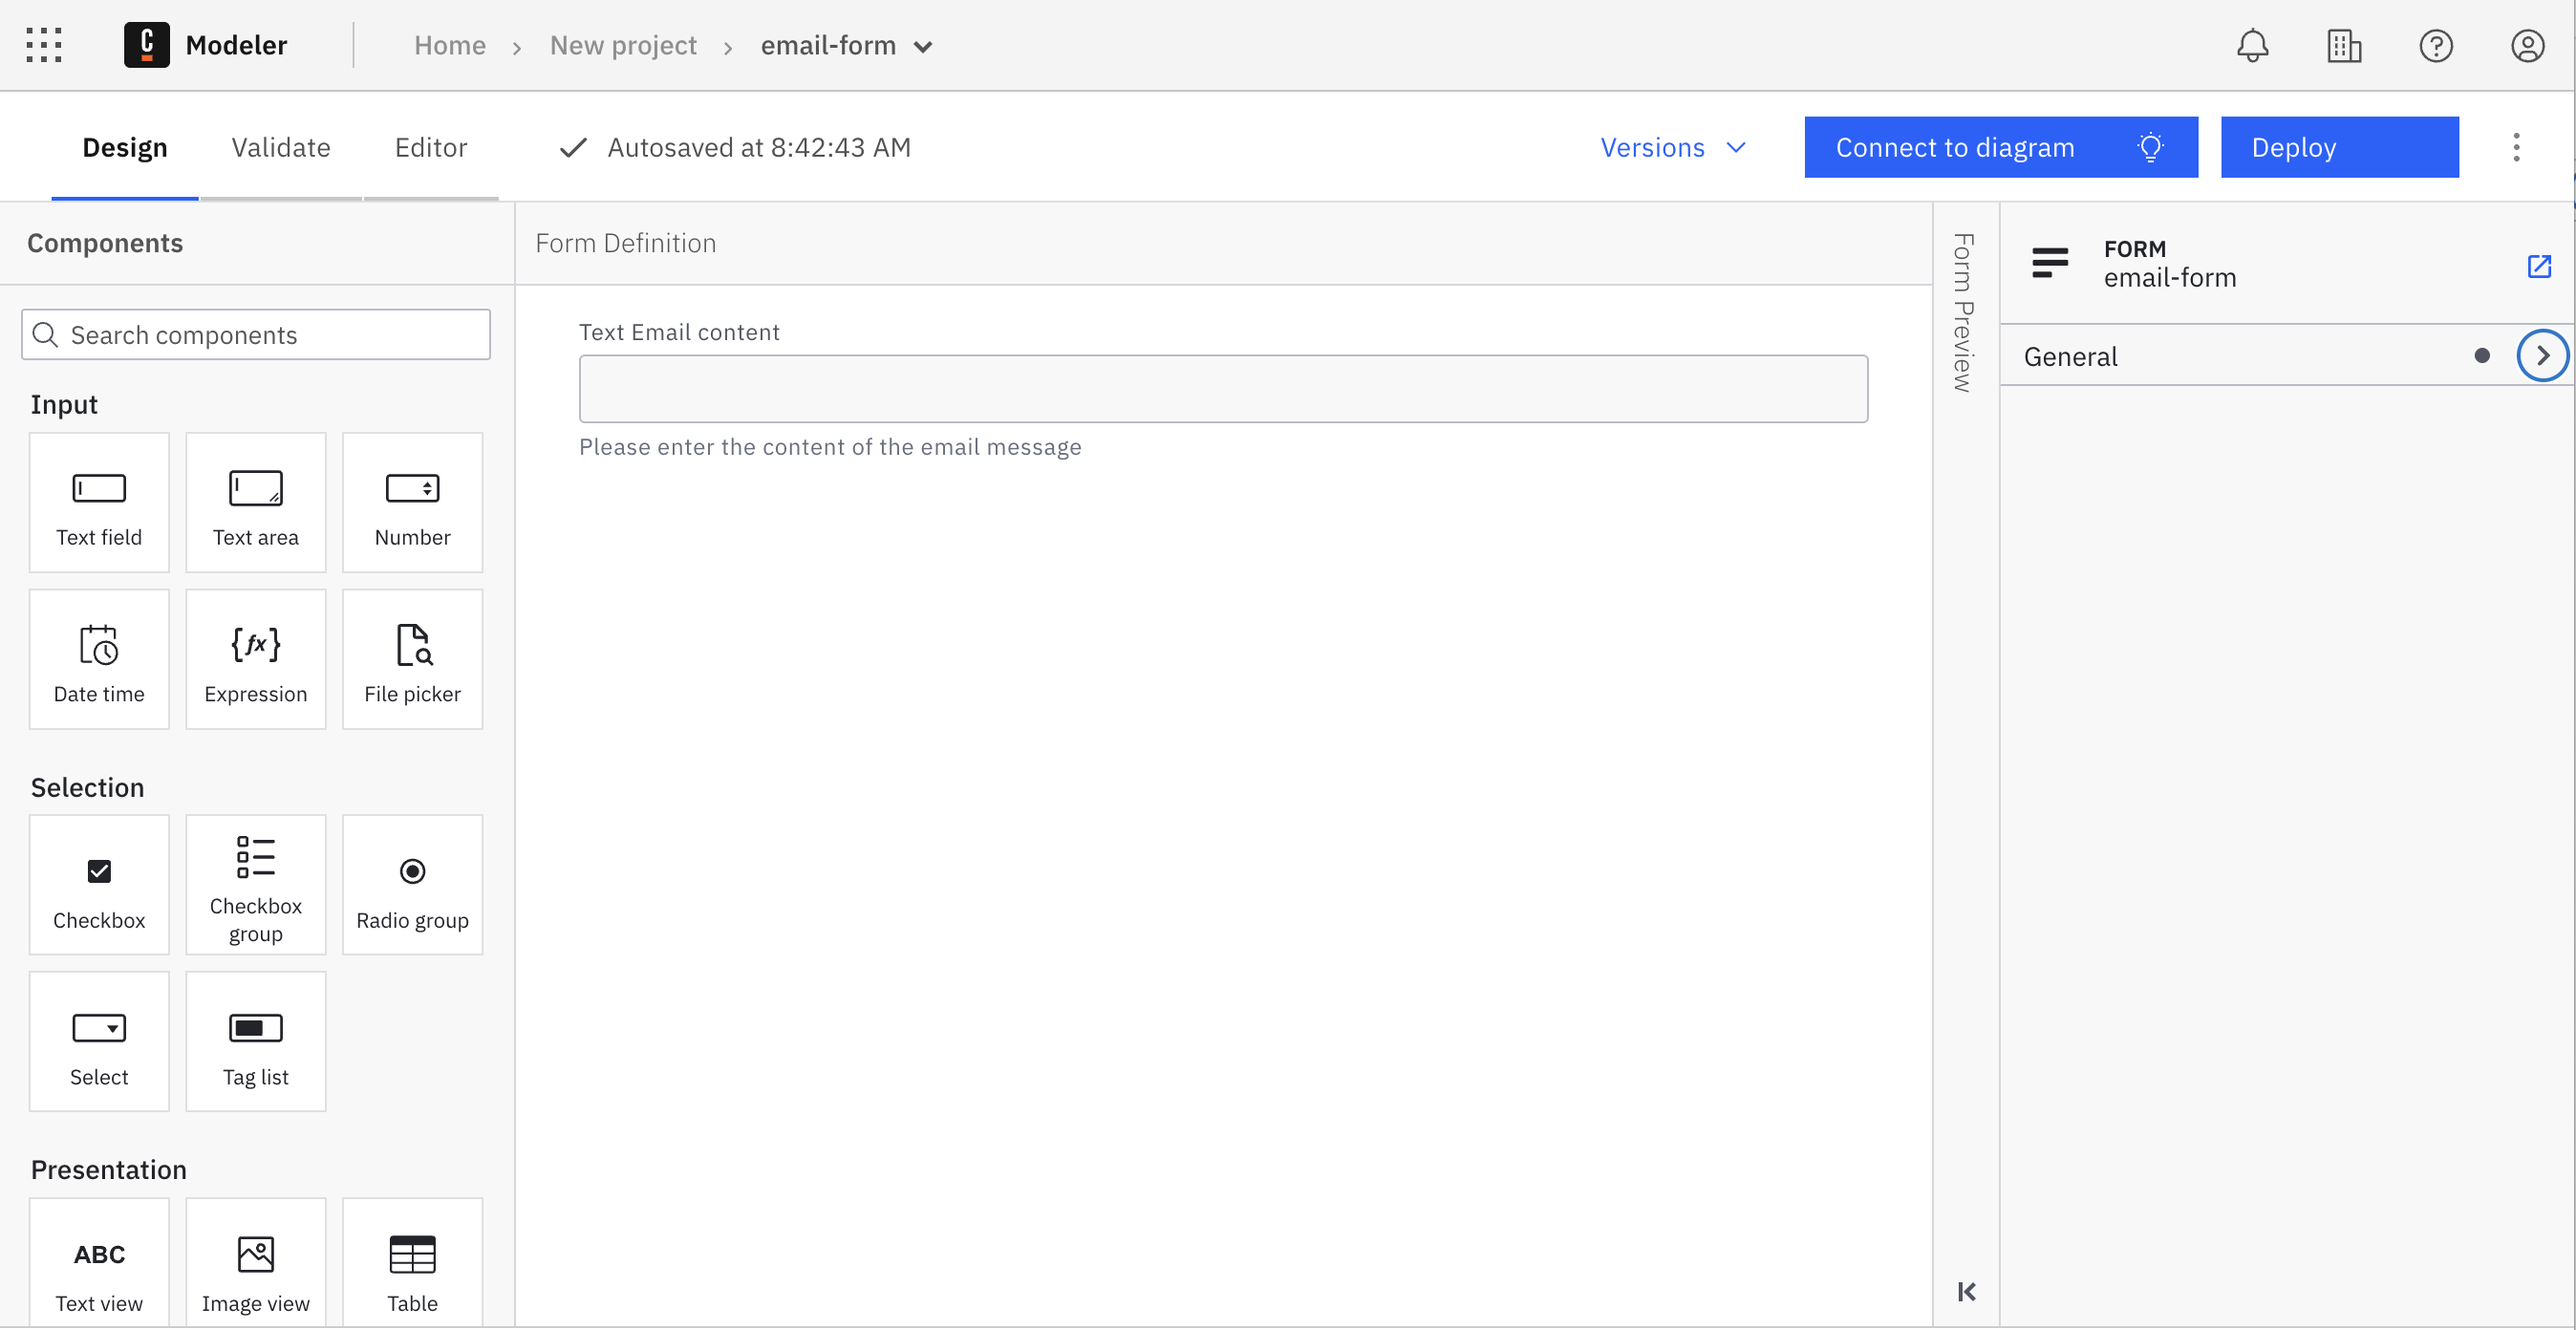
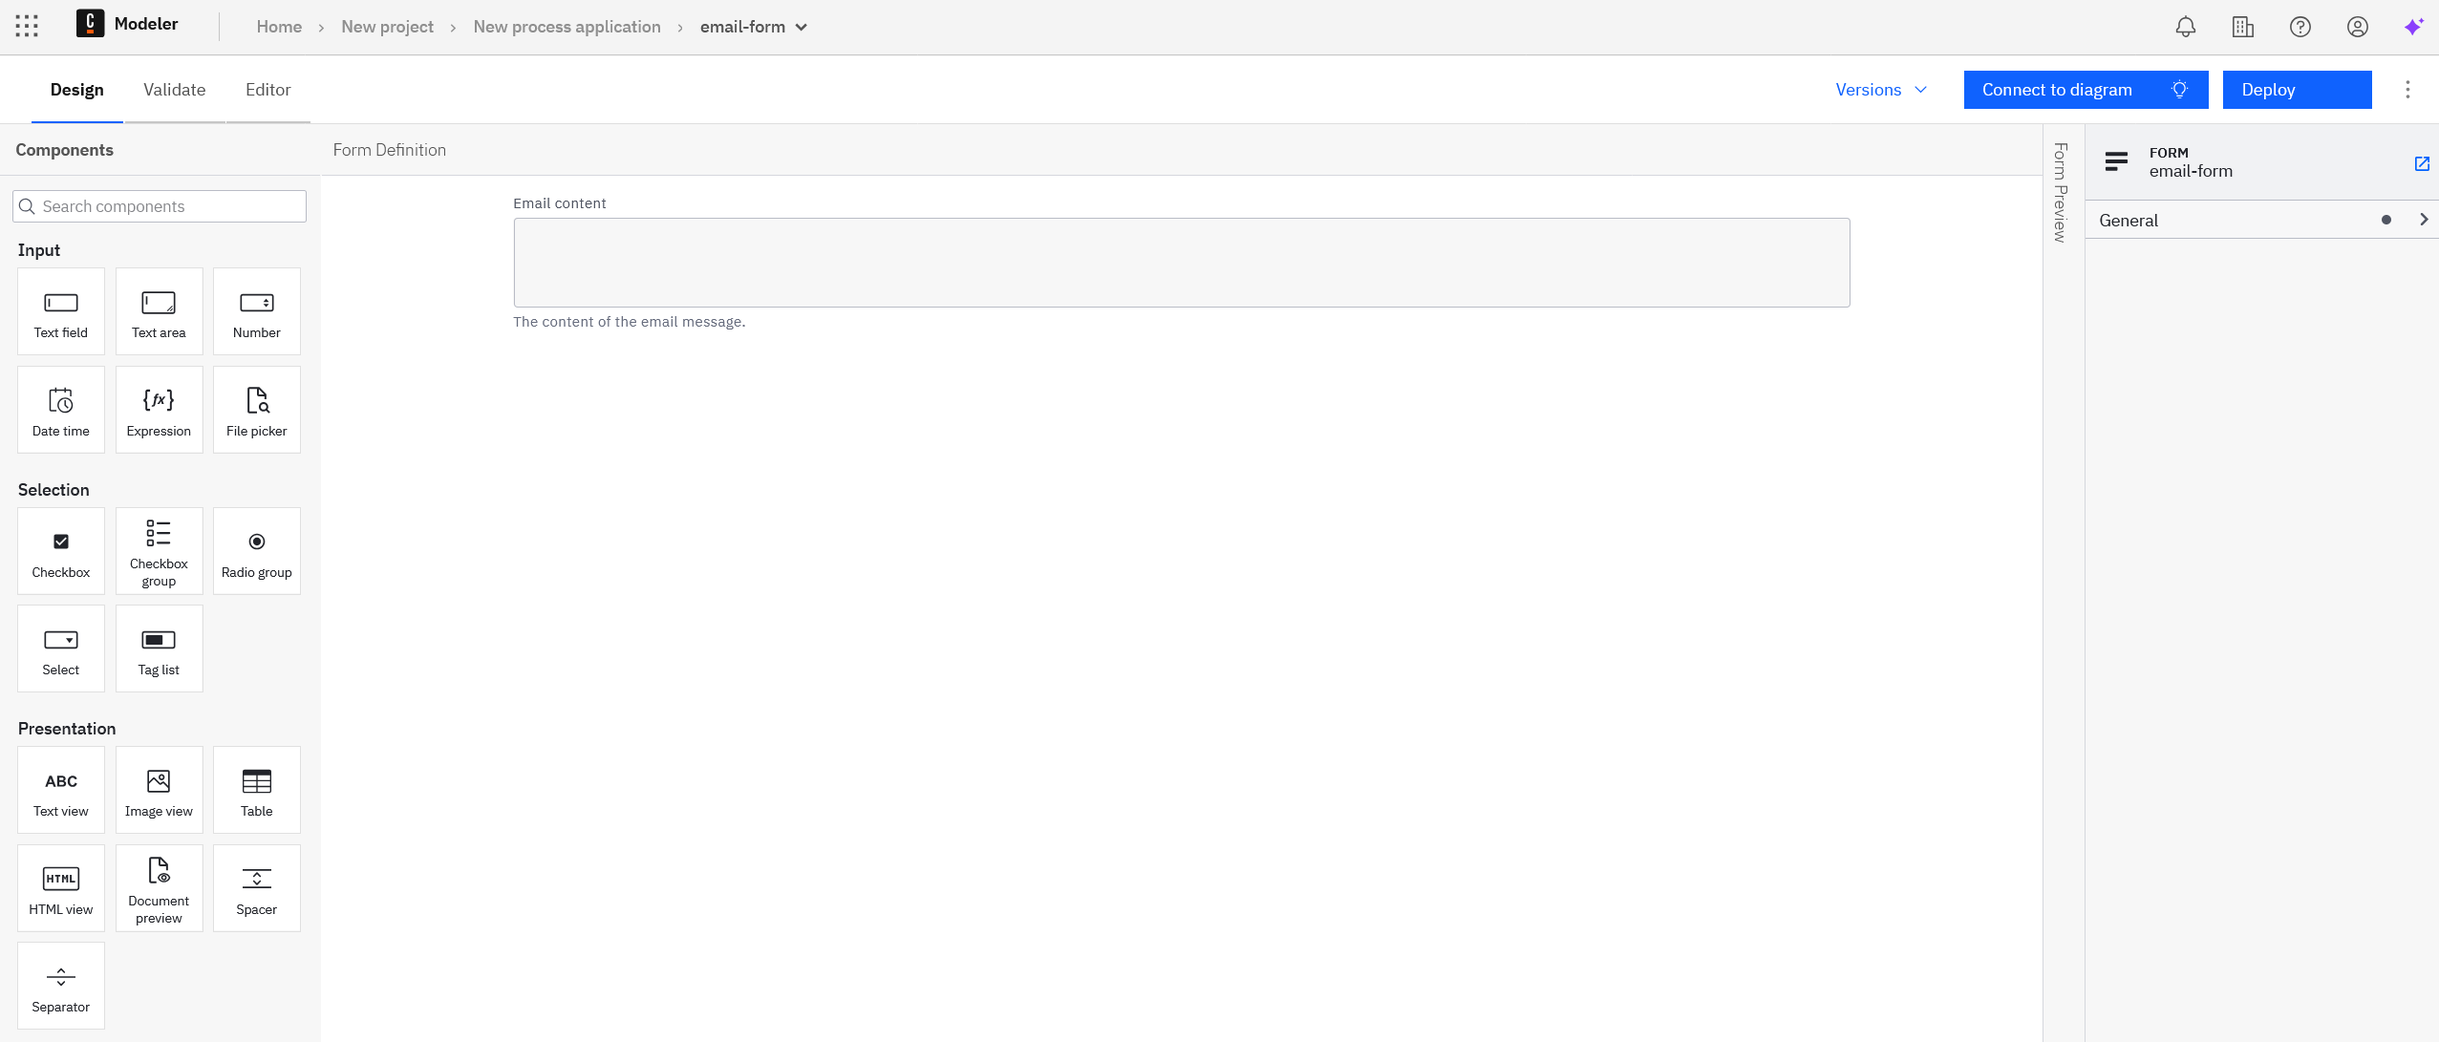
docs(hub): update "create new" instructions

diff --git a/versioned_docs/version-8.9/components/modeler/forms/utilizing-forms.md b/versioned_docs/version-8.9/components/modeler/forms/utilizing-forms.md
@@ -17,11 +17,16 @@ After deploying a diagram with a linked form, Tasklist imports this form schema 
 
 ### Create new form
 
-To start building a form, log in to your [Camunda 8](https://camunda.io) account or open [Desktop Modeler](/components/modeler/about-modeler.md) and take the following steps:
+To start building a form, log in to your [Camunda 8](https://camunda.io) account, and take the following steps:
 
-1. Navigate to Web Modeler or alternatively open the **File** menu in Desktop Modeler.
+1. Navigate to Web Modeler.
 2. Open any project from your Web Modeler home view.
-3. Click **Create new** and choose **Form**.
+3. In the project, create or open a process application.
+4. In the process application, click **Create new**, and choose **Form**.
+
+:::tip
+When using [Desktop Modeler](/components/modeler/about-modeler.md), under **Create a new file**, click **Form**.
+:::
 
 ### Build your form
 
@@ -51,15 +56,14 @@ To save your form in Camunda 8, you don't have to do anything. Web Modeler will 
 
 Next, let's implement a task form into a diagram. In tandem, we can link your form to a user task or start event.
 
-Navigate to Modeler and open any project from your Web Modeler home view.
-
 Take the following steps:
 
-1. Select the diagram where you'd like to apply your form.
-2. Select the user task requiring the help of a form.
-3. On the right side of the selected user task, select the overlay with the link icon to open the navigation menu.
-4. Navigate to the form you want to link and click the **Link** button.
-5. When a user task has a linked form, the overlay will always stay visible on the right side of the task.
+1. In the same project that contains your form, open any process application.
+2. In the process application, select the diagram where you'd like to apply your form.
+3. Select the user task requiring the help of a form.
+4. On the right side of the selected user task, select the overlay with the link icon to open the navigation menu.
+5. Navigate to the form you want to link and click the **Link** button.
+6. When a user task has a linked form, the overlay will always stay visible on the right side of the task.
 
 :::note
 When using Camunda Forms, any submit button present in the form schema is hidden so we can control when a user can complete a task.
